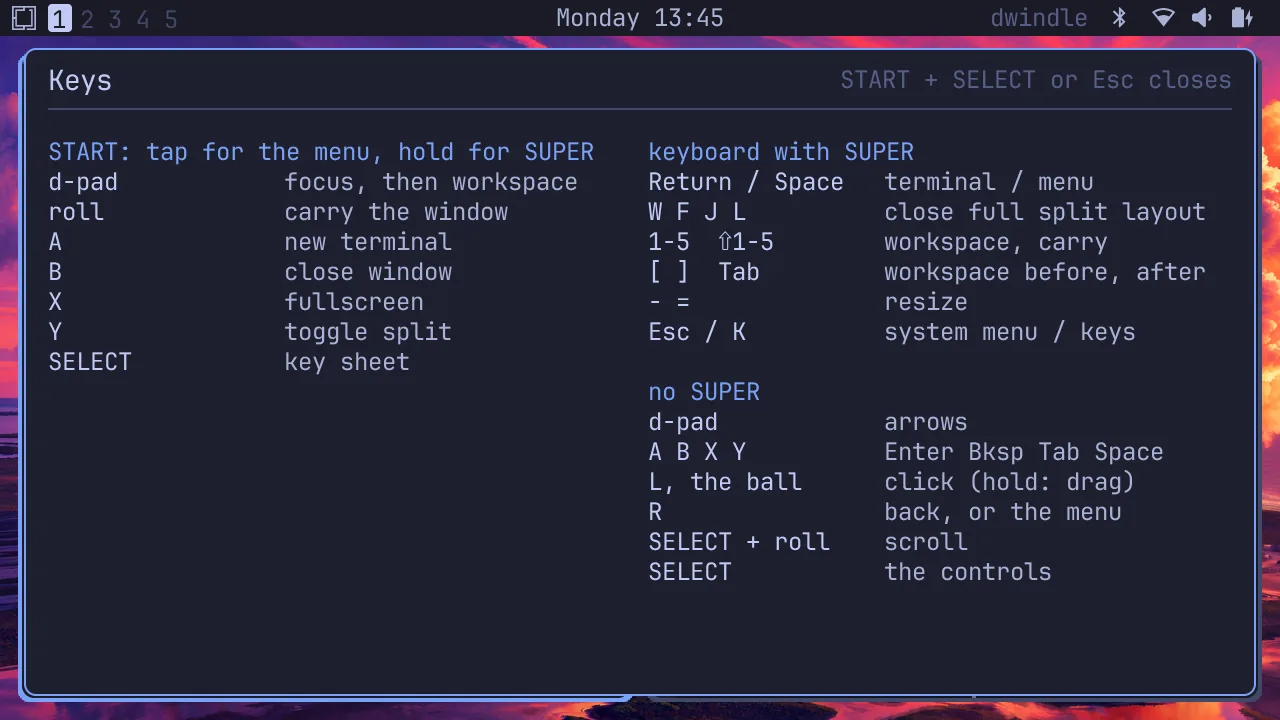
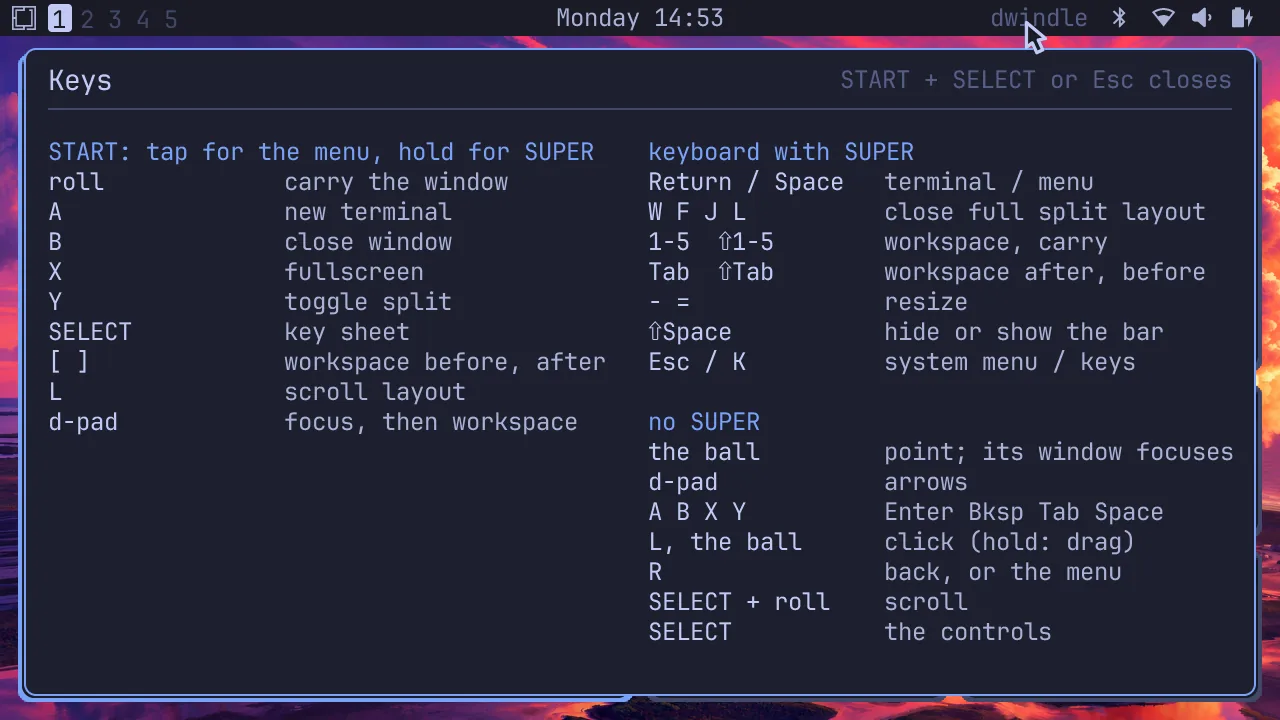
feat(uconsole): the ball focuses the window it rolls onto; START under the left thumb, the rest under the right (#28)
START held with the right thumb for the D-pad was the one chord that asked
the hands to cross. Omarchy's own desktop needs no chord to switch windows:
its Hyprland focuses the window the mouse moves onto (input.lua
follow_mouse = 1) and moves a window on SUPER + drag. The uConsole does the
same with its ball:

- the window the pointer rolls onto takes focus (not while the menu or a
  panel is up, nor while L holds an applet's touch); START + a roll still
  carries the focused window
- START is held by the left thumb and everything under SUPER is the right
  thumb's: the ball, A B X Y, [ ] (under the ball) for the workspace
  before and after, L for the layout; START + the D-pad still focuses
- a click on the bar's layout name (dwindle, scrolling) turns the layout
- a fullscreen window (SUPER + F, START + X) covers the bar, as on
  Omarchy's Hyprland; the bar had been drawn over its top
- SUPER + Shift + Space hides or shows the bar (Omarchy's binding; also
  Appearance > Top Bar in the menu)
- the controls row, the key sheet, the docs and the site's uConsole page
  say so, with new captures

diff --git a/site/public/docs/uconsole/index.html b/site/public/docs/uconsole/index.html
@@ -56,15 +56,16 @@
 </div>
 
 <h2 id="controls">Controls</h2>
-<p>The keyboard types, the D-pad is its arrow keys, and the trackball is the mouse, with <kbd>L</kbd> and <kbd>R</kbd> as its buttons. <kbd>START</kbd> is the SUPER key, as the Windows key is on a laptop:</p>
+<p>The keyboard types, the D-pad is its arrow keys, and the trackball is the mouse, with <kbd>L</kbd> and <kbd>R</kbd> as its buttons. As on Omarchy's desktop, the window the pointer rolls onto takes focus: point at a window to work in it. <kbd>START</kbd> is the SUPER key, as the Windows key is on a laptop:</p>
 <ul>
 <li><b>Tap</b> <kbd>START</kbd>: Omarchy's menu. Tap again to put it away.</li>
-<li><b>Hold</b> <kbd>START</kbd> and press another control: SUPER plus that control. Let go and nothing stays on. <kbd>START</kbd> sits by the middle of the keyboard, so either thumb holds it: the right thumb for the D-pad, the left one for <kbd>A</kbd> <kbd>B</kbd> <kbd>X</kbd> <kbd>Y</kbd> and the ball.</li>
+<li><b>Hold</b> <kbd>START</kbd> with your left thumb, and the right thumb does the rest: roll the ball to carry the window, press <kbd>A</kbd> <kbd>B</kbd> <kbd>X</kbd> <kbd>Y</kbd>, or a key on the keyboard's right half. Let go and nothing stays on.</li>
 </ul>
 <p>Hold <kbd>START</kbd> for a moment and the panel's bottom edge shows what each control does, right above it. Let go without pressing anything and nothing happens.</p>
 <figure class="diagram"><svg viewBox="0 0 640 308" role="img" aria-label="The uConsole's controls under its panel: the D-pad, L and R, the trackball, A B X Y, and Esc, SELECT and START on the keyboard's top row"><rect x="8" y="8" width="624" height="292" rx="22" class="body"/><rect x="20" y="20" width="600" height="78" rx="6" class="panel"/><text x="320.0" y="40" class="cap" text-anchor="middle">START held (SUPER): the panel's bottom edge names each control</text><text x="98.0" y="66" class="word" text-anchor="middle">Focus</text><text x="197.0" y="66" class="word" text-anchor="middle">Click</text><text x="224.0" y="84" class="word" text-anchor="middle">Back</text><text x="408.8" y="66" class="word" text-anchor="middle">Move</text><text x="494.0" y="66" class="word" text-anchor="middle">Split</text><text x="546.8" y="66" class="word" text-anchor="middle">Full</text><text x="521.0" y="84" class="word" text-anchor="middle">Close</text><text x="573.2" y="84" class="word" text-anchor="middle">Term</text><path d="M89 118h18v18h18v18h-18v18h-18v-18h-18v-18h18z" class="ctl"/><text x="98.0" y="194" class="lab" text-anchor="middle">D-pad</text><circle cx="197" cy="128" r="11" class="ctl"/><text x="197.0" y="132" class="key" text-anchor="middle">L</text><circle cx="224.00000000000003" cy="152" r="11" class="ctl"/><text x="224.0" y="156" class="key" text-anchor="middle">R</text><text x="210.5" y="194" class="lab" text-anchor="middle">mouse buttons</text><circle cx="408.8" cy="140" r="17" class="ball"/><text x="408.8" y="194" class="lab" text-anchor="middle">trackball (press: click)</text><circle cx="494" cy="128" r="11" class="ctl"/><text x="494.0" y="132" class="key" text-anchor="middle">Y</text><circle cx="546.8" cy="128" r="11" class="ctl"/><text x="546.8" y="132" class="key" text-anchor="middle">X</text><circle cx="521" cy="152" r="11" class="ctl"/><text x="521.0" y="156" class="key" text-anchor="middle">B</text><circle cx="573.2" cy="152" r="11" class="ctl"/><text x="573.2" y="156" class="key" text-anchor="middle">A</text><text x="533.6" y="194" class="lab" text-anchor="middle">A B X Y</text><rect x="34" y="218" width="572" height="68" rx="10" class="kb"/><rect x="38" y="228" width="52" height="22" rx="4" class="k"/><text x="64.0" y="243" class="kk" text-anchor="middle">Esc</text><rect x="98" y="228" width="52" height="22" rx="4" class="k"/><text x="124.0" y="243" class="kk" text-anchor="middle">SELECT</text><rect x="164" y="228" width="52" height="22" rx="4" class="k hot"/><text x="190.0" y="243" class="kk" text-anchor="middle">START</text><text x="172" y="265" class="lab hot">tap: menu</text><text x="172" y="280" class="lab hot">hold: SUPER</text><text x="124.0" y="270" class="lab" text-anchor="middle">hold: scroll</text><text x="400.0" y="258" class="lab" text-anchor="middle">Q W E R T Y … the keyboard types</text></svg><figcaption>The controls row under the uConsole's panel. While START is held, the panel's bottom edge names what each control does, right above it.</figcaption></figure>
-<div class="table"><table><thead><tr><th>Control</th><th>Alone</th><th>With START held (SUPER)</th></tr></thead><tbody><tr><td>D-pad</td><td>Arrows</td><td>Focus the window that way; past the last one, the workspace beside</td></tr><tr><td>Ball</td><td>Move the pointer</td><td>Carry the focused window that way; past the last one, to the workspace beside</td></tr><tr><td>A</td><td>Enter</td><td>New terminal</td></tr><tr><td>B</td><td>Backspace; back in the menu</td><td>Close the window</td></tr><tr><td>X</td><td>Tab</td><td>Fullscreen</td></tr><tr><td>Y</td><td>Space</td><td>Toggle split</td></tr><tr><td>SELECT</td><td>Alone: the controls row; held: the ball scrolls</td><td>Every binding</td></tr><tr><td>L / ball press</td><td>Click; hold to drag</td><td>Click</td></tr><tr><td>R</td><td>Back (in an applet or the menu); Omarchy's menu on the wallpaper</td><td>Back</td></tr></tbody></table></div>
-<p>With <kbd>START</kbd> held, the keyboard has Omarchy's own bindings: <kbd>Return</kbd> terminal, <kbd>Space</kbd> menu, <kbd>W</kbd> close, <kbd>F</kbd> fullscreen, <kbd>J</kbd> split, <kbd>L</kbd> layout, <kbd>1</kbd>–<kbd>5</kbd> a workspace (with Shift: carry the window there), <kbd>[</kbd> <kbd>]</kbd> or <kbd>Tab</kbd> the workspace before or after, <kbd>-</kbd> <kbd>=</kbd> resize, <kbd>K</kbd> every binding, <kbd>Esc</kbd> the System menu. The keyboard's own Cmd key (<kbd>Fn</kbd> + <kbd>Alt</kbd>) works as SUPER too.</p>
+<div class="table"><table><thead><tr><th>Control</th><th>Alone</th><th>With START held (SUPER)</th></tr></thead><tbody><tr><td>D-pad</td><td>Arrows</td><td>Focus the window that way; past the last one, the workspace beside</td></tr><tr><td>Ball</td><td>Move the pointer; the window under it takes focus</td><td>Carry the focused window that way; past the last one, to the workspace beside</td></tr><tr><td>A</td><td>Enter</td><td>New terminal</td></tr><tr><td>B</td><td>Backspace; back in the menu</td><td>Close the window</td></tr><tr><td>X</td><td>Tab</td><td>Fullscreen</td></tr><tr><td>Y</td><td>Space</td><td>Toggle split</td></tr><tr><td>SELECT</td><td>Alone: the controls row; held: the ball scrolls</td><td>Every binding</td></tr><tr><td>[ / ] (under the ball)</td><td>Typed</td><td>The workspace before / after</td></tr><tr><td>L / ball press</td><td>Click; hold to drag</td><td>Click</td></tr><tr><td>R</td><td>Back (in an applet or the menu); Omarchy's menu on the wallpaper</td><td>Back</td></tr></tbody></table></div>
+<p>With <kbd>START</kbd> held, the keyboard has Omarchy's own bindings: <kbd>Return</kbd> terminal, <kbd>Space</kbd> menu, <kbd>W</kbd> close, <kbd>F</kbd> fullscreen, <kbd>J</kbd> split, <kbd>L</kbd> layout, <kbd>1</kbd>–<kbd>5</kbd> a workspace (with Shift: carry the window there), <kbd>[</kbd> <kbd>]</kbd> or <kbd>Tab</kbd> the workspace before or after, <kbd>-</kbd> <kbd>=</kbd> resize, <kbd>K</kbd> every binding, <kbd>Esc</kbd> the System menu, <kbd>Shift</kbd> + <kbd>Space</kbd> hide or show the bar. The keyboard's own Cmd key (<kbd>Fn</kbd> + <kbd>Alt</kbd>) works as SUPER too.</p>
+<p>Click the layout's name in the bar (<code>dwindle</code> or <code>scrolling</code>) to switch the layout, or press <kbd>START</kbd> + <kbd>L</kbd>. Fullscreen (<kbd>START</kbd> + <kbd>X</kbd>) covers the bar too; the bar also hides and shows from Omarchy's menu: Appearance › Top Bar.</p>
 <div class="grid2">
 <figure class="shot"><img src="/docs/media/uconsole/legend.webp" alt="START held, with the controls row along the panel's bottom edge" loading="lazy" decoding="async"><figcaption>START held: each control's word sits right above it.</figcaption></figure>
 <figure class="shot"><img src="/docs/media/uconsole/startmenu.webp" alt="Omarchy's menu over two tiled windows" loading="lazy" decoding="async"><figcaption>START tapped: Omarchy's menu.</figcaption></figure>

diff --git a/site/docs.ts b/site/docs.ts
@@ -292,25 +292,27 @@ ${shot(S("lock"), "The lock screen with the password field on the stage", "The l
 </div>
 
 <h2 id="controls">Controls</h2>
-<p>The keyboard types, the D-pad is its arrow keys, and the trackball is the mouse, with ${kbd("L")} and ${kbd("R")} as its buttons. ${kbd("START")} is the SUPER key, as the Windows key is on a laptop:</p>
+<p>The keyboard types, the D-pad is its arrow keys, and the trackball is the mouse, with ${kbd("L")} and ${kbd("R")} as its buttons. As on Omarchy's desktop, the window the pointer rolls onto takes focus: point at a window to work in it. ${kbd("START")} is the SUPER key, as the Windows key is on a laptop:</p>
 <ul>
 <li><b>Tap</b> ${kbd("START")}: Omarchy's menu. Tap again to put it away.</li>
-<li><b>Hold</b> ${kbd("START")} and press another control: SUPER plus that control. Let go and nothing stays on. ${kbd("START")} sits by the middle of the keyboard, so either thumb holds it: the right thumb for the D-pad, the left one for ${kbd("A")} ${kbd("B")} ${kbd("X")} ${kbd("Y")} and the ball.</li>
+<li><b>Hold</b> ${kbd("START")} with your left thumb, and the right thumb does the rest: roll the ball to carry the window, press ${kbd("A")} ${kbd("B")} ${kbd("X")} ${kbd("Y")}, or a key on the keyboard's right half. Let go and nothing stays on.</li>
 </ul>
 <p>Hold ${kbd("START")} for a moment and the panel's bottom edge shows what each control does, right above it. Let go without pressing anything and nothing happens.</p>
 ${uconsoleControls()}
 ${table(["Control", "Alone", "With START held (SUPER)"], [
   ["D-pad", "Arrows", "Focus the window that way; past the last one, the workspace beside"],
-  ["Ball", "Move the pointer", "Carry the focused window that way; past the last one, to the workspace beside"],
+  ["Ball", "Move the pointer; the window under it takes focus", "Carry the focused window that way; past the last one, to the workspace beside"],
   ["A", "Enter", "New terminal"],
   ["B", "Backspace; back in the menu", "Close the window"],
   ["X", "Tab", "Fullscreen"],
   ["Y", "Space", "Toggle split"],
   ["SELECT", "Alone: the controls row; held: the ball scrolls", "Every binding"],
+  ["[ / ] (under the ball)", "Typed", "The workspace before / after"],
   ["L / ball press", "Click; hold to drag", "Click"],
   ["R", "Back (in an applet or the menu); Omarchy's menu on the wallpaper", "Back"],
 ])}
-<p>With ${kbd("START")} held, the keyboard has Omarchy's own bindings: ${kbd("Return")} terminal, ${kbd("Space")} menu, ${kbd("W")} close, ${kbd("F")} fullscreen, ${kbd("J")} split, ${kbd("L")} layout, ${kbd("1")}–${kbd("5")} a workspace (with Shift: carry the window there), ${kbd("[")} ${kbd("]")} or ${kbd("Tab")} the workspace before or after, ${kbd("-")} ${kbd("=")} resize, ${kbd("K")} every binding, ${kbd("Esc")} the System menu. The keyboard's own Cmd key (${kbd("Fn")} + ${kbd("Alt")}) works as SUPER too.</p>
+<p>With ${kbd("START")} held, the keyboard has Omarchy's own bindings: ${kbd("Return")} terminal, ${kbd("Space")} menu, ${kbd("W")} close, ${kbd("F")} fullscreen, ${kbd("J")} split, ${kbd("L")} layout, ${kbd("1")}–${kbd("5")} a workspace (with Shift: carry the window there), ${kbd("[")} ${kbd("]")} or ${kbd("Tab")} the workspace before or after, ${kbd("-")} ${kbd("=")} resize, ${kbd("K")} every binding, ${kbd("Esc")} the System menu, ${kbd("Shift")} + ${kbd("Space")} hide or show the bar. The keyboard's own Cmd key (${kbd("Fn")} + ${kbd("Alt")}) works as SUPER too.</p>
+<p>Click the layout's name in the bar (<code>dwindle</code> or <code>scrolling</code>) to switch the layout, or press ${kbd("START")} + ${kbd("L")}. Fullscreen (${kbd("START")} + ${kbd("X")}) covers the bar too; the bar also hides and shows from Omarchy's menu: Appearance › Top Bar.</p>
 <div class="grid2">
 ${shot(S("legend"), "START held, with the controls row along the panel's bottom edge", "START held: each control's word sits right above it.")}
 ${shot(S("startmenu"), "Omarchy's menu over two tiled windows", "START tapped: Omarchy's menu.")}

diff --git a/shell/src/stage/pointer.tsx b/shell/src/stage/pointer.tsx
@@ -19,11 +19,12 @@ import { state } from "../system.ts";
 import { color } from "../theme.ts";
 import type { Contact, TouchFrame } from "../touch.ts";
 import { BORDER } from "../wm.ts";
-import { act, focus, focusWindow, focused, placements, windowAt, windowById, WORKSPACES } from "../workspaces.ts";
+import { act, focus, focusWindow, focused, layout, placements, windowAt, windowById, WORKSPACES } from "../workspaces.ts";
 import { toggleMenu } from "./menu.tsx";
 import { card, cardTouch, closeCard, onCard } from "./card.tsx";
 import { CARD_X, CARD_Y } from "./geometry.ts";
-import { barIndicators } from "./bar.tsx";
+import { barIndicators, barShown } from "./bar.tsx";
+import { perform } from "../actions.ts";
 import { showPanel } from "./panels.tsx";
 import { HEADER_H } from "./windows.tsx";
 import { STAGE_H, STAGE_W } from "../screen.ts";
@@ -90,12 +91,18 @@ function barClick(px: number) {
   if (n !== null) return focus(n);
   const indicators = barIndicators(state());
   const at = Math.floor((STAGE_W - 8 - px) / SLOT);
-  if (px < STAGE_W - 8 && at >= 0 && at < indicators.length) showPanel(indicators[at]!.name);
+  if (px < STAGE_W - 8 && at >= 0 && at < indicators.length) return showPanel(indicators[at]!.name);
+  // the layout's name, right-aligned before the indicators (bar.tsx): dwindle or scroll
+  const right = STAGE_W - 16 - SLOT * indicators.length;
+  if (px >= right - layout().length * MONO_XS - 6 && px < right + 4) perform("layout");
 }
+
+/** JetBrains Mono's advance at text-xs (12 points) */
+const MONO_XS = 7.2;
 
 const onBar = (py: number) => {
   const top = state()?.bar?.position === "bottom" ? STAGE_H - BAR_H : 0;
-  return !state()?.bar?.hidden && py >= top && py < top + BAR_H;
+  return barShown() && py >= top && py < top + BAR_H;
 };
 
 export type Target = "applet" | "bar" | "wallpaper" | { kind: "workspace"; ws: number } | { kind: "window"; id: number };

diff --git a/shell/src/trackball.ts b/shell/src/trackball.ts
@@ -5,7 +5,9 @@
 // thumb points while the other clicks, the way the keyboard's maker laid
 // them out.
 //
-//   the ball      moves the pointer; pressed, it clicks as L does
+//   the ball      moves the pointer, and the window it moves onto takes focus,
+//                 as Omarchy's Hyprland does (input.lua follow_mouse = 1);
+//                 pressed, it clicks as L does
 //   L             the click: down on an applet is a touch held until L is up
 //                 (a press is a tap, a press and roll a drag); elsewhere it
 //                 acts at once (a card's row, a workspace number, an
@@ -28,7 +30,7 @@ import { card, cardKey, closeCard, onCard } from "./stage/card.tsx";
 import { carryWindowTo, click, hold, movePointer, pointer, scrollBy, targetAt } from "./stage/pointer.tsx";
 import { toggleMenu } from "./stage/menu.tsx";
 import { superLayer, used } from "./super.ts";
-import { focusWindow, windowAt } from "./workspaces.ts";
+import { focused, focusWindow, windowAt } from "./workspaces.ts";
 import { watching } from "./watch.ts";
 
 interface Bridge {
@@ -110,6 +112,7 @@ export function trackballTick(): boolean {
     if (dx || dy) {
       movePointer(dx * gain, dy * gain);
       setAwake(true);
+      followFocus();
     }
   }
   if (wheel) wheelTurned(wheel);
@@ -157,6 +160,15 @@ function secondary() {
     return pressBack();
   }
   if (target === "wallpaper") toggleMenu();
+}
+
+/** Omarchy's follow_mouse: the window the pointer moves onto takes focus.
+ *  Not while the menu or a panel is up, nor while L holds an applet's touch. */
+function followFocus() {
+  if (card() || holding) return;
+  const { x, y } = pointer();
+  const id = windowAt(x, y);
+  if (id !== null && id !== focused()?.id) focusWindow(id);
 }
 
 /** Under SUPER: the roll carries the focused window, one place a step. */

diff --git a/shell/src/stage/bar.tsx b/shell/src/stage/bar.tsx
@@ -20,7 +20,7 @@ import { state } from "../system.ts";
 import type { SystemState } from "../../../daemon/protocol.ts";
 import type { PanelName } from "./panels.tsx";
 import { color } from "../theme.ts";
-import { current, layout, occupied, WORKSPACES } from "../workspaces.ts";
+import { current, fullscreen, layout, occupied, WORKSPACES } from "../workspaces.ts";
 import { STAGE_H, STAGE_W } from "../screen.ts";
 
 const NUMBERS = Array.from({ length: WORKSPACES }, (_, i) => i);
@@ -46,6 +46,10 @@ export function barIndicators(s: SystemState | null): { name: PanelName; glyph: 
   ].filter((i) => i.glyph);
 }
 
+/** The bar is drawn: Omarchy's bar-off toggle hides it, and a fullscreen
+ *  window (SUPER + F, not maximize) covers it, as on Omarchy's Hyprland. */
+export const barShown = () => !state()?.bar?.hidden && fullscreen()?.mode !== "full";
+
 export function Bar(props: { now: () => Date; focused: () => string | null }) {
   const settings = () => state()?.bar;
   const clock = () => formatClock(settings()?.clock ?? "dddd HH:mm", props.now());
@@ -53,7 +57,7 @@ export function Bar(props: { now: () => Date; focused: () => string | null }) {
   const indicators = () => barIndicators(state());
   const statusRight = () => STAGE_W - 8 - SLOT * indicators().length - 8;
   return (
-    <Show when={!settings()?.hidden}>
+    <Show when={barShown()}>
       <View class={C.bar} style={{ width: STAGE_W, insetT: top(), bgColor: color("background", ALPHA[settings()?.background ?? "opaque"] ?? 1) }}>
         {/* centred on the bar's middle (9): Omarchy's logo sits high in its em, 2 points down; the digits half a point */}
         <Text class={C.barText} style={{ insetL: 6, insetT: 4, textColor: color("foreground") }}>{"\u{e900}"}</Text>

diff --git a/shell/src/chords.ts b/shell/src/chords.ts
@@ -324,9 +324,11 @@ function uconsoleSheet(layout: Layout): { title: string; rows: SheetRow[] }[] {
     {
       title: "START: tap for the menu, hold for SUPER",
       rows: [
-        { keys: "d-pad", what: "focus, then workspace" },
         { keys: "roll", what: "carry the window" },
         ...chordsOf("window").filter((c) => !(c.button & DPAD)).map((c) => ({ keys: BUTTON_NAME[c.button]!, what: labelFor(c.action, layout) })),
+        { keys: "[ ]", what: "workspace before, after" },
+        { keys: "L", what: layout === "dwindle" ? "scroll layout" : "tile layout" },
+        { keys: "d-pad", what: "focus, then workspace" },
       ],
     },
     {
@@ -335,14 +337,16 @@ function uconsoleSheet(layout: Layout): { title: string; rows: SheetRow[] }[] {
         { keys: "Return / Space", what: "terminal / menu" },
         { keys: "W F J L", what: "close full split layout" },
         { keys: "1-5  \u{21e7}1-5", what: "workspace, carry" },
-        { keys: "[ ]  Tab", what: "workspace before, after" },
+        { keys: "Tab  \u{21e7}Tab", what: "workspace after, before" },
         { keys: "- =", what: "resize" },
+        { keys: "\u{21e7}Space", what: "hide or show the bar" },
         { keys: "Esc / K", what: "system menu / keys" },
       ],
     },
     {
       title: "no SUPER",
       rows: [
+        { keys: "the ball", what: "point; its window focuses" },
         { keys: "d-pad", what: "arrows" },
         { keys: "A B X Y", what: "Enter Bksp Tab Space" },
         { keys: "L, the ball", what: "click (hold: drag)" },

diff --git a/shell/src/stage/controls.tsx b/shell/src/stage/controls.tsx
@@ -74,7 +74,7 @@ const CELLS: Cell[] = [
 /** What the D-pad's edge, the wheel and START do, under the cells. */
 function notes(layer: Layer): { left: string; middle: string; title: string; hint: string } {
   if (layer === "plain") return { left: "", middle: "SELECT + roll: scroll", title: "Controls", hint: "tap START: menu · hold START: SUPER" };
-  return { left: "past the last: workspace", middle: "roll: move the window", title: "SUPER", hint: "keyboard: Omarchy's SUPER keys · SELECT: all" };
+  return { left: "past the last: workspace", middle: "roll: move the window", title: "SUPER", hint: "[ ]: workspace · L: layout · SELECT: all keys" };
 }
 
 const CELL_W = 70;

diff --git a/shell/src/hardkeys.ts b/shell/src/hardkeys.ts
@@ -13,7 +13,8 @@
 //   J split              L layout          K key sheet      Escape the System menu
 //   arrows focus         1-5 workspace     Tab, ] next      Shift+Tab, [ previous
 //   - = resize
-//   with Shift: arrows swap, 1-5 and { } carry the window, Return opens another
+//   with Shift: arrows swap, 1-5 and { } carry the window, Return opens
+//   another, Space hides or shows the bar
 //
 // A key SUPER does not bind does nothing while SUPER is held.
 import { onTextEvent, type TextEvent } from "@pocketjs/framework/input";

diff --git a/shell/test/uconsole.test.ts b/shell/test/uconsole.test.ts
@@ -15,6 +15,7 @@ test("SUPER's keys are Omarchy's bindings, and Shift moves instead of focusing",
   expect(superAction("w", false)).toBe("close");
   expect(superAction("Enter", false)).toBe("terminal");
   expect(superAction(" ", false)).toBe("menu");
+  expect(superAction(" ", true)).toBe("bar");
   expect(superAction("Left", false)).toBe("focus.left");
   expect(superAction("Left", true)).toBe("swap.left");
   expect(superAction("3", false)).toBe("ws2");

diff --git a/shell/src/superkeys.ts b/shell/src/superkeys.ts
@@ -33,7 +33,8 @@ export function superAction(key: string, shift: boolean): Action | "terminal" | 
     case "Enter":
       return shift ? "another" : "terminal";
     case " ":
-      return "menu";
+      // SUPER + SHIFT + SPACE hides or shows Omarchy's bar
+      return shift ? "bar" : "menu";
     case "w":
     case "q":
       return "close";

diff --git a/docs/clockwork-uconsole.md b/docs/clockwork-uconsole.md
@@ -57,7 +57,9 @@ The RG DS Plus's three lines ([interaction.md](interaction.md)) become these on 
 **START is SUPER, as the Windows key is on a laptop** (`super.ts`). ClockworkPi's drawing puts START on the keyboard's top row 41 mm from the left of a 125 mm board, by the middle: either thumb reaches it. So SUPER is held, never latched:
 
 - **Tapped** (down and up within 18 frames, 0.3 s, with nothing pressed or rolled in between), START opens Omarchy's menu, and a tap with the menu open puts it away. A game with focus hears the tap as its START.
-- **Held**, START is SUPER for as long as it is down, and a chord takes the other thumb: the right thumb holds START for the D-pad, the left thumb holds it for A B X Y and the ball. Letting go leaves nothing on. Held past 18 frames with nothing pressed, its release does nothing: that hold was a look at the controls row.
+- **Held**, START is SUPER for as long as it is down. The left thumb holds it, where it rests, and the right thumb does the rest: the ball, A B X Y, and the keyboard's right half (`[ ]`, L, J, K, Return). Letting go leaves nothing on. Held past 18 frames with nothing pressed, its release does nothing: that hold was a look at the controls row.
+
+**The ball is the mouse, as on Omarchy's desktop.** Omarchy's Hyprland focuses the window the mouse moves onto (`default/hypr/input.lua`, `follow_mouse = 1`) and moves a window on SUPER + drag (`bindings/tiling.lua`). Here the window the pointer rolls onto takes focus (`trackball.ts` `followFocus`; not while the menu or a panel is up, nor while L holds an applet's touch), and START + a roll carries the focused window. So switching windows takes no chord, and no chord asks one thumb for two controls: the D-pad under SUPER still focuses, for whoever reaches START with the right thumb, but nothing needs it.
 
 0.2.1 latched SUPER on a tap and counted taps (a second tap the move layer, a third leaving it), so one button meant three things depending on how often it had been pressed. Now each control means one thing with START held and one without.
 
@@ -66,18 +68,22 @@ The keyboard's own SUPER (Fn + Alt, sent as Cmd) is SUPER while it is down, as S
 | Control | Without SUPER | With START held (SUPER) |
 |---|---|---|
 | D-pad | the arrows | focus the window that way; past the last window, the workspace beside |
-| the ball | the pointer | carry the focused window that way (`trackball.ts`: every 56 points rolled one way is one place, then 14 frames' rest); past the last window, the workspace beside |
+| the ball | the pointer; the window it rolls onto takes focus | carry the focused window that way (`trackball.ts`: every 56 points rolled one way is one place, then 14 frames' rest); past the last window, the workspace beside |
 | A | Enter | a new terminal (Omarchy's SUPER + Return) |
 | B | Backspace; back in the menu | close the window |
 | X | Tab | fullscreen |
 | Y | Space | toggle split / column width |
 | SELECT | alone: the controls row; held: the ball scrolls | the key sheet |
+| `[` `]` (under the ball) | typed | the workspace before, after |
+| L | typed | dwindle or scroll, as the bar's layout name when clicked |
 | L, the ball's press | click; held on an applet: a touch, so a press and roll drags | click |
 | R | back in an applet and the menu; Omarchy's menu on the wallpaper; on a workspace number, carry the window there | the same |
 
 The D-pad picks a window and the ball moves it: a step past the last window goes to the workspace beside and stops at the first and the fifth, as the bar lays them out; a held D-pad's repeats stop at the last window, and only a press goes past it.
 
-Under SUPER the keyboard has Omarchy's own bindings (`superkeys.ts`, after `default/hypr/bindings/tiling.lua` and `utilities.lua`): Return a terminal, Space the menu, W or Q close, F fullscreen, J split, L the layout, K the key sheet, Escape the System menu, 1–5 a workspace (with Shift, carry the window there), Tab and `]` the next workspace, Shift+Tab and `[` the previous one, `-` and `=` resize, Shift + Return another window of the focused app. A key SUPER does not bind does nothing while SUPER is held.
+Under SUPER the keyboard has Omarchy's own bindings (`superkeys.ts`, after `default/hypr/bindings/tiling.lua` and `utilities.lua`): Return a terminal, Space the menu, W or Q close, F fullscreen, J split, L the layout, K the key sheet, Escape the System menu, 1–5 a workspace (with Shift, carry the window there), Tab and `]` the next workspace, Shift+Tab and `[` the previous one, `-` and `=` resize, Shift + Return another window of the focused app, Shift + Space hides or shows the bar (Omarchy's `omarchy-toggle-bar`, also Appearance › Top Bar in the menu). A key SUPER does not bind does nothing while SUPER is held.
+
+**Fullscreen** (SUPER + F, or START + X) covers the whole panel, the bar too, as on Omarchy's Hyprland; the bar comes back with the window's return to its tile (`stage/bar.tsx` `barShown`).
 
 **The trackball** (`trackball.ts`) moves the pointer, relative and accelerated (0.9 points per count at rest, up to 2.6). Its clicks act by what is under the pointer (`stage/pointer.tsx` `targetAt`):
 
@@ -85,7 +91,7 @@ Under SUPER the keyboard has Omarchy's own bindings (`superkeys.ts`, after `defa
 |---|---|---|
 | a touch app (an applet) | a touch held until the button lets go: a press is a tap, a press and roll a drag | Back (the applet hears Cross) |
 | the card | a row (a tap selects, a tap on the selected row opens it); outside the card, the card closes | back a level, out at the top |
-| the bar | the logo opens the menu; a number goes to its workspace; an indicator opens its panel | a number carries the focused window there |
+| the bar | the logo opens the menu; a number goes to its workspace; an indicator opens its panel; the layout's name (dwindle, scrolling) turns the layout | a number carries the focused window there |
 | a window | focus | focus |
 | the wallpaper | — | Omarchy's menu, where a desktop puts its own |
 
@@ -97,7 +103,7 @@ SELECT held turns the ball into a wheel (the firmware does it): the list under t
 
 **Games.** A package that is not a touch app hears the D-pad and A B X Y, and START when it is tapped while the game has focus; START held is SUPER over it too.
 
-**Verified** (2026-11-16, uinput devices named as the keyboard's three functions, which the host enumerates as it does the real ones, and the GPU readback): START tapped opens the menu and tapped again puts it away; START held 0.7 s shows the controls row with SUPER's words, and its release opens nothing; START held + A twice tiles two terminals, and the keyboard types into the focused one without START; START + ← focuses the left one; START held and the ball rolled right carries it right; START + → past the last window steps to the next workspace, START + 1 back to the first; START + X fullscreen and back, START + Y turns the split, START + B closes; SELECT alone shows the plain row; START + SELECT the key sheet, Esc closes it; START tapped, A on Apps, typing `act` and Return opens Activity.
+**Verified** (2026-11-16, uinput devices named as the keyboard's three functions, which the host enumerates as it does the real ones, and the GPU readback): START tapped opens the menu and tapped again puts it away; START held 0.7 s shows the controls row with SUPER's words, and its release opens nothing; START held + A twice tiles two terminals, and the keyboard types into the focused one without START; START + ← focuses the left one; START held and the ball rolled right carries it right; START + → past the last window steps to the next workspace, START + 1 back to the first; START + X fullscreen and back, START + Y turns the split, START + B closes; SELECT alone shows the plain row; START + SELECT the key sheet, Esc closes it; START tapped, A on Apps, typing `act` and Return opens Activity. Then: the ball rolled onto the left of two windows focuses it; START + X covers the bar and back brings it; a click on the bar's `dwindle` turns the layout to scrolling and another back; START + Shift + Space hides the bar and again shows it; START + `]` and `[` step the workspaces.
 
 ## Display
 

diff --git a/README.md b/README.md
@@ -38,7 +38,7 @@ The Retroid Pocket Duo Lite (Snapdragon 665, Android 15, a 5.5" 1920×1080 upper
 
 ## On the ClockworkPi uConsole
 
-The ClockworkPi uConsole (Raspberry Pi CM4, Raspberry Pi OS 13) runs Omarchy Pocket beside its own desktop: the same host program built with Mesa (`--features mesa`) on its one 5" panel, the stage turned a quarter onto the 720×1280 portrait panel and taking all of it at 640×360 points (density 2); the keyboard as the keyboard, the trackball as the pointer with L and R as its buttons, the D-pad and A B X Y as the gamepad, and START as the SUPER key: tapped, Omarchy's menu; held, SUPER (the D-pad focuses, the ball carries the window, A B X Y open a terminal, close, fullscreen and split), with the controls' meanings drawn along the panel's bottom edge right above them while it is held. Omarchy's CLI and omarchy-pocketd run in the AYN Thor's Arch Linux ARM root under chroot, on Raspberry Pi OS's NetworkManager, PipeWire, BlueZ and logind. [docs/clockwork-uconsole.md](docs/clockwork-uconsole.md) has the details.
+The ClockworkPi uConsole (Raspberry Pi CM4, Raspberry Pi OS 13) runs Omarchy Pocket beside its own desktop: the same host program built with Mesa (`--features mesa`) on its one 5" panel, the stage turned a quarter onto the 720×1280 portrait panel and taking all of it at 640×360 points (density 2); the keyboard as the keyboard, the trackball as the pointer with L and R as its buttons, the D-pad and A B X Y as the gamepad, the pointer focusing the window it rolls onto as Omarchy's desktop does, and START as the SUPER key under the left thumb: tapped, Omarchy's menu; held, SUPER for the right thumb (the ball carries the window, A B X Y open a terminal, close, fullscreen and split, `[ ]` step workspaces), with the controls' meanings drawn along the panel's bottom edge right above them while it is held. Omarchy's CLI and omarchy-pocketd run in the AYN Thor's Arch Linux ARM root under chroot, on Raspberry Pi OS's NetworkManager, PipeWire, BlueZ and logind. [docs/clockwork-uconsole.md](docs/clockwork-uconsole.md) has the details.
 
 On the uConsole, from the release:
 
